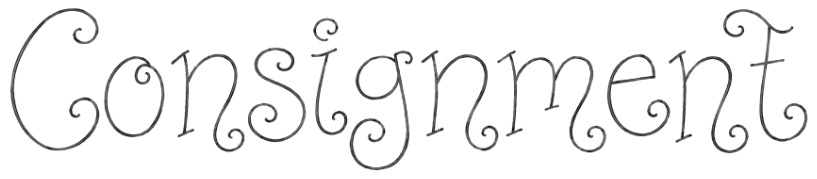
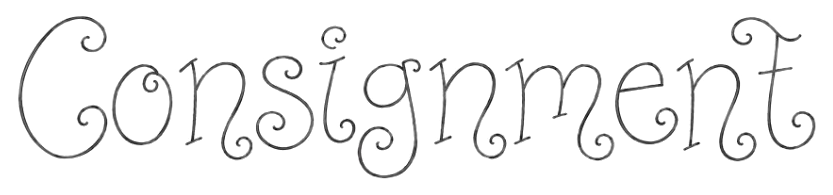
Use the new Consignment and Shipping titles, keep Consignment smaller than About, and only store sticker color stock when each color has its own count.

Changed region(s): [[0.0, 0.0279, 1.0, 0.9497], [0.5202, 0.4749, 0.5508, 0.5307]]

diff --git a/js/main.js b/js/main.js
@@ -7,7 +7,7 @@ import {
   productsIn,
 } from "./data.js?v=24";
 import * as store from "./store.js?v=2";
-import * as auth from "./auth.js?v=10";
+import * as auth from "./auth.js?v=11";
 
 const page = document.body.dataset.page || "home";
 const slug = document.body.dataset.slug || new URLSearchParams(location.search).get("slug") || "";
@@ -93,8 +93,8 @@ function wordImg(kind, extra = "") {
     pieces: ["/images/all-pieces-word.png", "All pieces"],
     best: ["/images/best-sellers-word.png", "Best Sellers"],
     about: ["/images/about-word.png", "About"],
-    consignment: ["/images/consignment-word.png", "Consignment"],
-    shipping: ["/images/shipping-word.png", "Shipping"],
+    consignment: ["/images/consignment-word.png?v=3", "Consignment"],
+    shipping: ["/images/shipping-word.png?v=3", "Shipping"],
     instagram: ["/images/instagram-word.png", "Instagram"],
   };
   const [src, alt] = map[kind];
@@ -361,6 +361,7 @@ function colorById(product, id) {
 
 function buyLimit(product, colorId) {
   const tone = colorById(product, colorId);
+  if (tone && tone.soldOut) return Number.isInteger(tone.stock) ? tone.stock : 0;
   if (tone && Number.isInteger(tone.stock)) return tone.stock;
   return product ? product.maxQty : 5;
 }

diff --git a/product/lace-butterfly-choker/index.html b/product/lace-butterfly-choker/index.html
@@ -10,10 +10,10 @@
 <link rel="preconnect" href="https://fonts.googleapis.com">
 <link rel="preconnect" href="https://fonts.gstatic.com" crossorigin>
 <link href="https://fonts.googleapis.com/css2?family=Cormorant+Garamond:ital,wght@0,400;0,500;0,600;1,400;1,500;1,600&family=Oooh+Baby&family=Outfit:wght@300;400;500&display=swap" rel="stylesheet">
-<link rel="stylesheet" href="/css/styles.css?v=129">
+<link rel="stylesheet" href="/css/styles.css?v=134">
 </head>
 <body data-page="product" data-slug="lace-butterfly-choker">
 <noscript><p class="noscript">請開啟 JavaScript，才能進入 BiJulia。</p></noscript>
-<script type="module" src="/js/main.js?v=150"></script>
+<script type="module" src="/js/main.js?v=153"></script>
 </body>
 </html>

diff --git a/collections/vintage-treasures/index.html b/collections/vintage-treasures/index.html
@@ -10,10 +10,10 @@
 <link rel="preconnect" href="https://fonts.googleapis.com">
 <link rel="preconnect" href="https://fonts.gstatic.com" crossorigin>
 <link href="https://fonts.googleapis.com/css2?family=Cormorant+Garamond:ital,wght@0,400;0,500;0,600;1,400;1,500;1,600&family=Oooh+Baby&family=Outfit:wght@300;400;500&display=swap" rel="stylesheet">
-<link rel="stylesheet" href="/css/styles.css?v=129">
+<link rel="stylesheet" href="/css/styles.css?v=134">
 </head>
 <body data-page="collection" data-slug="vintage-treasures">
 <noscript><p class="noscript">請開啟 JavaScript，才能進入 BiJulia。</p></noscript>
-<script type="module" src="/js/main.js?v=150"></script>
+<script type="module" src="/js/main.js?v=153"></script>
 </body>
 </html>

diff --git a/product/button-drop-necklace/index.html b/product/button-drop-necklace/index.html
@@ -10,10 +10,10 @@
 <link rel="preconnect" href="https://fonts.googleapis.com">
 <link rel="preconnect" href="https://fonts.gstatic.com" crossorigin>
 <link href="https://fonts.googleapis.com/css2?family=Cormorant+Garamond:ital,wght@0,400;0,500;0,600;1,400;1,500;1,600&family=Oooh+Baby&family=Outfit:wght@300;400;500&display=swap" rel="stylesheet">
-<link rel="stylesheet" href="/css/styles.css?v=129">
+<link rel="stylesheet" href="/css/styles.css?v=134">
 </head>
 <body data-page="product" data-slug="button-drop-necklace">
 <noscript><p class="noscript">請開啟 JavaScript，才能進入 BiJulia。</p></noscript>
-<script type="module" src="/js/main.js?v=150"></script>
+<script type="module" src="/js/main.js?v=153"></script>
 </body>
 </html>

diff --git a/product/comb-and-chair-chain/index.html b/product/comb-and-chair-chain/index.html
@@ -10,10 +10,10 @@
 <link rel="preconnect" href="https://fonts.googleapis.com">
 <link rel="preconnect" href="https://fonts.gstatic.com" crossorigin>
 <link href="https://fonts.googleapis.com/css2?family=Cormorant+Garamond:ital,wght@0,400;0,500;0,600;1,400;1,500;1,600&family=Oooh+Baby&family=Outfit:wght@300;400;500&display=swap" rel="stylesheet">
-<link rel="stylesheet" href="/css/styles.css?v=129">
+<link rel="stylesheet" href="/css/styles.css?v=134">
 </head>
 <body data-page="product" data-slug="comb-and-chair-chain">
 <noscript><p class="noscript">請開啟 JavaScript，才能進入 BiJulia。</p></noscript>
-<script type="module" src="/js/main.js?v=150"></script>
+<script type="module" src="/js/main.js?v=153"></script>
 </body>
 </html>

diff --git a/collections/pearl-collection/index.html b/collections/pearl-collection/index.html
@@ -10,10 +10,10 @@
 <link rel="preconnect" href="https://fonts.googleapis.com">
 <link rel="preconnect" href="https://fonts.gstatic.com" crossorigin>
 <link href="https://fonts.googleapis.com/css2?family=Cormorant+Garamond:ital,wght@0,400;0,500;0,600;1,400;1,500;1,600&family=Oooh+Baby&family=Outfit:wght@300;400;500&display=swap" rel="stylesheet">
-<link rel="stylesheet" href="/css/styles.css?v=129">
+<link rel="stylesheet" href="/css/styles.css?v=134">
 </head>
 <body data-page="collection" data-slug="pearl-collection">
 <noscript><p class="noscript">請開啟 JavaScript，才能進入 BiJulia。</p></noscript>
-<script type="module" src="/js/main.js?v=150"></script>
+<script type="module" src="/js/main.js?v=153"></script>
 </body>
 </html>

diff --git a/product/button-chain-choker/index.html b/product/button-chain-choker/index.html
@@ -10,10 +10,10 @@
 <link rel="preconnect" href="https://fonts.googleapis.com">
 <link rel="preconnect" href="https://fonts.gstatic.com" crossorigin>
 <link href="https://fonts.googleapis.com/css2?family=Cormorant+Garamond:ital,wght@0,400;0,500;0,600;1,400;1,500;1,600&family=Oooh+Baby&family=Outfit:wght@300;400;500&display=swap" rel="stylesheet">
-<link rel="stylesheet" href="/css/styles.css?v=129">
+<link rel="stylesheet" href="/css/styles.css?v=134">
 </head>
 <body data-page="product" data-slug="button-chain-choker">
 <noscript><p class="noscript">請開啟 JavaScript，才能進入 BiJulia。</p></noscript>
-<script type="module" src="/js/main.js?v=150"></script>
+<script type="module" src="/js/main.js?v=153"></script>
 </body>
 </html>

diff --git a/product/button-lace-choker/index.html b/product/button-lace-choker/index.html
@@ -10,10 +10,10 @@
 <link rel="preconnect" href="https://fonts.googleapis.com">
 <link rel="preconnect" href="https://fonts.gstatic.com" crossorigin>
 <link href="https://fonts.googleapis.com/css2?family=Cormorant+Garamond:ital,wght@0,400;0,500;0,600;1,400;1,500;1,600&family=Oooh+Baby&family=Outfit:wght@300;400;500&display=swap" rel="stylesheet">
-<link rel="stylesheet" href="/css/styles.css?v=129">
+<link rel="stylesheet" href="/css/styles.css?v=134">
 </head>
 <body data-page="product" data-slug="button-lace-choker">
 <noscript><p class="noscript">請開啟 JavaScript，才能進入 BiJulia。</p></noscript>
-<script type="module" src="/js/main.js?v=150"></script>
+<script type="module" src="/js/main.js?v=153"></script>
 </body>
 </html>

diff --git a/product/lock-and-key-chain/index.html b/product/lock-and-key-chain/index.html
@@ -10,10 +10,10 @@
 <link rel="preconnect" href="https://fonts.googleapis.com">
 <link rel="preconnect" href="https://fonts.gstatic.com" crossorigin>
 <link href="https://fonts.googleapis.com/css2?family=Cormorant+Garamond:ital,wght@0,400;0,500;0,600;1,400;1,500;1,600&family=Oooh+Baby&family=Outfit:wght@300;400;500&display=swap" rel="stylesheet">
-<link rel="stylesheet" href="/css/styles.css?v=129">
+<link rel="stylesheet" href="/css/styles.css?v=134">
 </head>
 <body data-page="product" data-slug="lock-and-key-chain">
 <noscript><p class="noscript">請開啟 JavaScript，才能進入 BiJulia。</p></noscript>
-<script type="module" src="/js/main.js?v=150"></script>
+<script type="module" src="/js/main.js?v=153"></script>
 </body>
 </html>

diff --git a/collections/shell-stickers/index.html b/collections/shell-stickers/index.html
@@ -10,10 +10,10 @@
 <link rel="preconnect" href="https://fonts.googleapis.com">
 <link rel="preconnect" href="https://fonts.gstatic.com" crossorigin>
 <link href="https://fonts.googleapis.com/css2?family=Cormorant+Garamond:ital,wght@0,400;0,500;0,600;1,400;1,500;1,600&family=Oooh+Baby&family=Outfit:wght@300;400;500&display=swap" rel="stylesheet">
-<link rel="stylesheet" href="/css/styles.css?v=129">
+<link rel="stylesheet" href="/css/styles.css?v=134">
 </head>
 <body data-page="collection" data-slug="shell-stickers">
 <noscript><p class="noscript">請開啟 JavaScript，才能進入 BiJulia。</p></noscript>
-<script type="module" src="/js/main.js?v=150"></script>
+<script type="module" src="/js/main.js?v=153"></script>
 </body>
 </html>

diff --git a/product/ivory-lace-cross/index.html b/product/ivory-lace-cross/index.html
@@ -10,10 +10,10 @@
 <link rel="preconnect" href="https://fonts.googleapis.com">
 <link rel="preconnect" href="https://fonts.gstatic.com" crossorigin>
 <link href="https://fonts.googleapis.com/css2?family=Cormorant+Garamond:ital,wght@0,400;0,500;0,600;1,400;1,500;1,600&family=Oooh+Baby&family=Outfit:wght@300;400;500&display=swap" rel="stylesheet">
-<link rel="stylesheet" href="/css/styles.css?v=129">
+<link rel="stylesheet" href="/css/styles.css?v=134">
 </head>
 <body data-page="product" data-slug="ivory-lace-cross">
 <noscript><p class="noscript">請開啟 JavaScript，才能進入 BiJulia。</p></noscript>
-<script type="module" src="/js/main.js?v=150"></script>
+<script type="module" src="/js/main.js?v=153"></script>
 </body>
 </html>

diff --git a/collections/lace-ribbons/index.html b/collections/lace-ribbons/index.html
@@ -10,10 +10,10 @@
 <link rel="preconnect" href="https://fonts.googleapis.com">
 <link rel="preconnect" href="https://fonts.gstatic.com" crossorigin>
 <link href="https://fonts.googleapis.com/css2?family=Cormorant+Garamond:ital,wght@0,400;0,500;0,600;1,400;1,500;1,600&family=Oooh+Baby&family=Outfit:wght@300;400;500&display=swap" rel="stylesheet">
-<link rel="stylesheet" href="/css/styles.css?v=129">
+<link rel="stylesheet" href="/css/styles.css?v=134">
 </head>
 <body data-page="collection" data-slug="lace-ribbons">
 <noscript><p class="noscript">請開啟 JavaScript，才能進入 BiJulia。</p></noscript>
-<script type="module" src="/js/main.js?v=150"></script>
+<script type="module" src="/js/main.js?v=153"></script>
 </body>
 </html>
